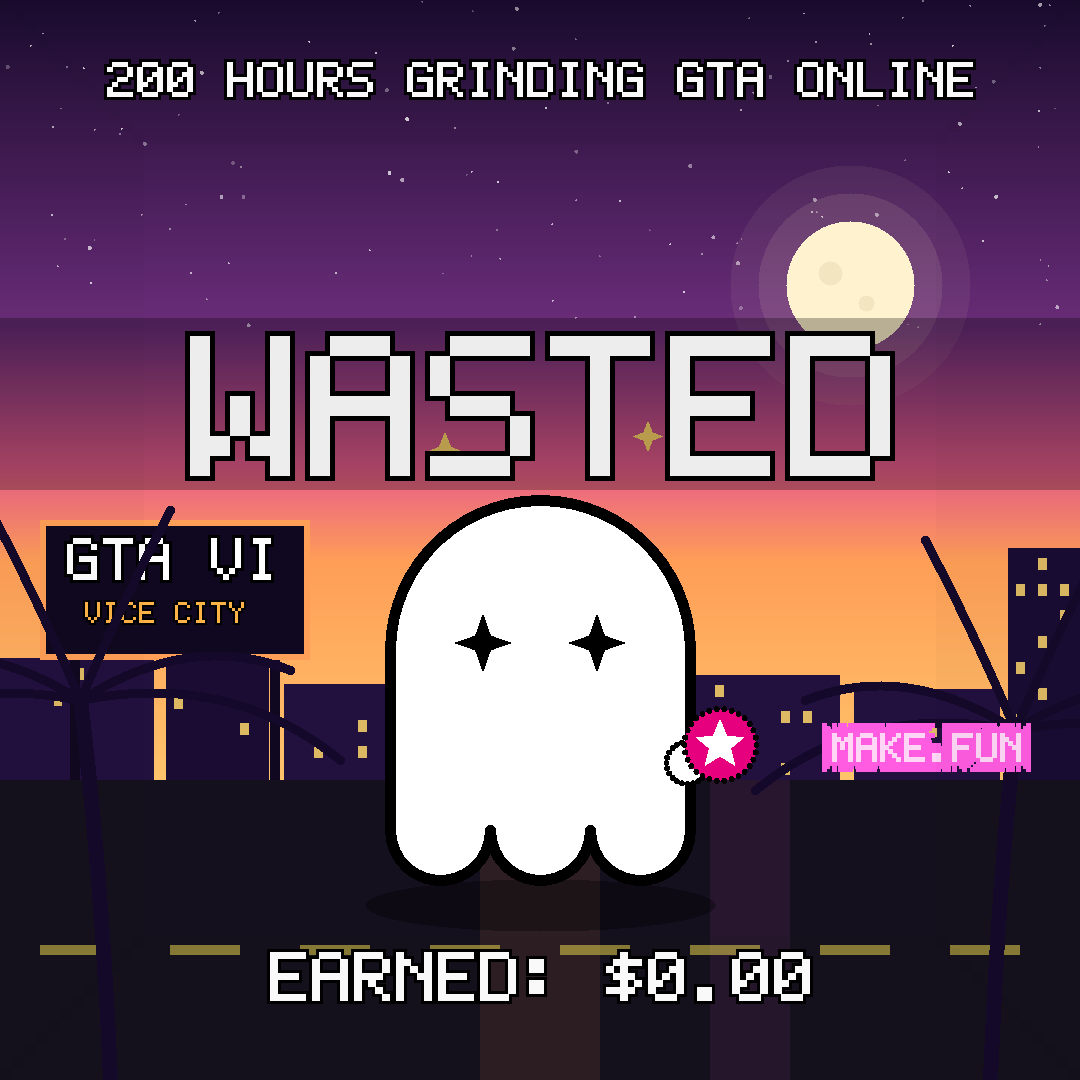
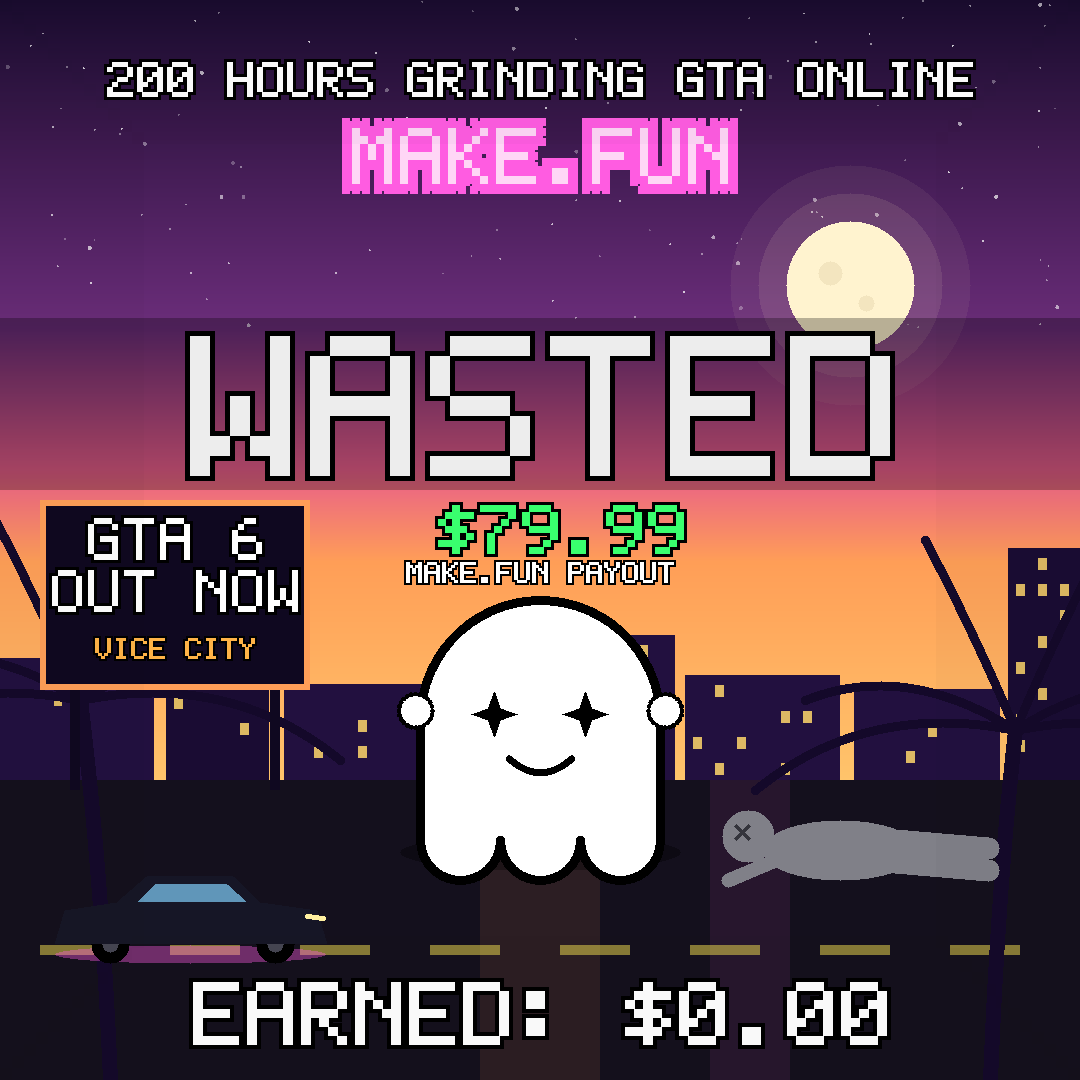
gta6-meme-x-01 v2: ghost alive +$79.99 payout, GTA 6 OUT NOW billboard, new caption

diff --git a/main.ts b/main.ts
@@ -408,15 +408,30 @@ function ghostPoints(cx: number, topY: number, r: number, hemY: number): Array<[
   return pts;
 }
 
-function drawGhost(c: Canvas, cx: number, topY: number, r: number, hemY: number): void {
+function drawGhost(c: Canvas, cx: number, topY: number, r: number, hemY: number, opts: { coin?: boolean; celebrate?: boolean } = {}): void {
+  const { coin = true, celebrate = false } = opts;
   const pts = ghostPoints(cx, topY, r, hemY);
   c.polygon(pts, WHITE);
   c.strokePolygon(pts, Math.max(6, Math.round(r / 14)), BLACK);
-  // Sparkle eyes.
+  // Sparkle eyes (the ghost's normal eyes, not dizzy).
   const eyeY = topY + r * 0.95;
   const eyeDX = r * 0.38;
   c.sparkle(cx - eyeDX, eyeY, r * 0.19, r * 0.07, BLACK);
   c.sparkle(cx + eyeDX, eyeY, r * 0.19, r * 0.07, BLACK);
+  if (celebrate) {
+    // Happy smile + both little hands raised in celebration.
+    c.curve(cx - r * 0.26, topY + r * 1.32, cx, topY + r * 1.55, cx + r * 0.26, topY + r * 1.32, Math.max(5, Math.round(r / 18)), BLACK);
+    for (const side of [-1, 1] as const) {
+      const hx = cx + side * r * 1.04;
+      const hy = topY + r * 0.92;
+      c.circle(hx, hy, r * 0.14, WHITE);
+      for (let deg = 0; deg < 360; deg += 15) {
+        const a = (deg * Math.PI) / 180;
+        c.circle(hx + (r * 0.14) * Math.cos(a), hy + (r * 0.14) * Math.sin(a), Math.max(2, r * 0.02), BLACK);
+      }
+    }
+    return;
+  }
   // Little hand on the right side, holding the coin.
   const hx = cx + r * 0.98;
   const hy = topY + r * 1.75;
@@ -426,6 +441,7 @@ function drawGhost(c: Canvas, cx: number, topY: number, r: number, hemY: number)
     const a = (deg * Math.PI) / 180;
     c.circle(hx + (r * 0.14) * Math.cos(a), hy + (r * 0.14) * Math.sin(a), Math.max(2, r * 0.02), BLACK);
   }
+  if (!coin) return;
   // Magenta coin with a white star, held up by the hand.
   const coinX = hx + r * 0.22;
   const coinY = hy - r * 0.12;
@@ -435,6 +451,66 @@ function drawGhost(c: Canvas, cx: number, topY: number, r: number, hemY: number)
     c.circle(coinX + (r * 0.24) * Math.cos(a), coinY + (r * 0.24) * Math.sin(a), Math.max(2, r * 0.02), BLACK);
   }
   c.star(coinX, coinY, r * 0.17, r * 0.075, WHITE);
+}
+
+// A generic grey GTA player, slumped flat on the ground: the one who got
+// WASTED. Drawn lying on his back, head to the left, one arm flopped out.
+function drawSlumpedPlayer(c: Canvas, x: number, y: number): void {
+  const GREY: Color = [128, 128, 136];
+  const DARK: Color = [52, 52, 60];
+  // Legs, stretched out to the right, parallel.
+  c.line(x + 175, y + 12, x + 268, y + 20, 22, GREY);
+  c.line(x + 175, y + 34, x + 268, y + 42, 22, GREY);
+  // Torso: a horizontal capsule.
+  c.ellipse(x + 120, y + 22, 78, 30, GREY);
+  // Head, tipped back.
+  c.circle(x + 28, y + 8, 26, GREY);
+  // One arm flopped out on the ground beside the head.
+  c.line(x + 55, y + 32, x + 8, y + 52, 14, GREY);
+  // The other arm across the chest.
+  c.line(x + 105, y + 8, x + 150, y + 30, 14, GREY);
+  // Closed "X" eyes on the head, so he reads as knocked out.
+  c.line(x + 16, y - 2, x + 28, y + 10, 4, DARK);
+  c.line(x + 28, y - 2, x + 16, y + 10, 4, DARK);
+}
+
+// A simple dark sports car silhouette on the road, with a hint of neon
+// underglow — the GTA vehicle in the foreground.
+function drawSportsCar(c: Canvas, x: number, y: number): void {
+  const BODY: Color = [22, 22, 38];
+  // Neon underglow first, so the body sits on top of it.
+  c.ellipse(x + 135, y + 82, 135, 9, NEON, 0.4);
+  // Wheels.
+  c.circle(x + 55, y + 72, 19, BLACK);
+  c.circle(x + 55, y + 72, 8, [70, 70, 82]);
+  c.circle(x + 220, y + 72, 19, BLACK);
+  c.circle(x + 220, y + 72, 8, [70, 70, 82]);
+  // Low wedge body with a cabin.
+  c.polygon(
+    [
+      [x, y + 72],
+      [x + 10, y + 38],
+      [x + 62, y + 30],
+      [x + 92, y + 4],
+      [x + 178, y + 4],
+      [x + 205, y + 30],
+      [x + 262, y + 38],
+      [x + 272, y + 72],
+    ],
+    BODY,
+  );
+  // Cabin glass.
+  c.polygon(
+    [
+      [x + 100, y + 12],
+      [x + 172, y + 12],
+      [x + 192, y + 30],
+      [x + 82, y + 30],
+    ],
+    [96, 150, 185],
+  );
+  // Headlight slash.
+  c.line(x + 252, y + 44, x + 268, y + 46, 5, [255, 240, 160]);
 }
 
 // ---------------------------------------------------------------------------
@@ -559,47 +635,57 @@ function renderWasted(): Canvas {
   const horizonY = 780;
 
   drawSky(c, horizonY, rng);
-  const buildings = drawSkyline(c, horizonY, rng);
-
-  // Billboard on poles at the left, below the WASTED band: GTA VI / VICE CITY.
-  const panelX = 40;
-  const panelY = 520;
-  c.rect(panelX + 30, panelY + 140, 10, 120, [15, 8, 32]);
-  c.rect(panelX + 230, panelY + 140, 10, 120, [15, 8, 32]);
-  c.rect(panelX, panelY, 270, 140, [15, 8, 32]);
-  // Orange border around the panel.
-  c.rect(panelX, panelY, 270, 6, [255, 158, 87]);
-  c.rect(panelX, panelY + 134, 270, 6, [255, 158, 87]);
-  c.rect(panelX, panelY, 6, 140, [255, 158, 87]);
-  c.rect(panelX + 264, panelY, 6, 140, [255, 158, 87]);
-  c.drawText('GTA VI', panelX + 27, panelY + 18, 6, WHITE, { color: BLACK, width: 3 });
-  c.drawText('VICE CITY', panelX + 45, panelY + 82, 3, [255, 179, 71], { color: BLACK, width: 2 });
-
-  // Neon MAKE.FUN sign on a right-hand building. Drawn after the palms so
-  // no frond crosses it.
-  const right = buildings[buildings.length - 2] ?? buildings[buildings.length - 1];
-  const signCx = Math.min(930, Math.max(130, right.x + right.w / 2));
-  const signY = right.top + 44;
+  drawSkyline(c, horizonY, rng);
 
   drawRoad(c, horizonY);
   drawPalm(c, 110, 1080, -30, 380);
   drawPalm(c, 990, 1080, 25, 350);
-  c.glowText('MAKE.FUN', signCx, signY, 4, [255, 214, 246], NEON);
 
-  // The ghost, centre stage: the "wasted" player, coin still in hand.
-  c.ellipse(540, 905, 175, 26, BLACK, 0.35);
-  drawGhost(c, 540, 500, 150, 830);
-  // Dizzy sparkles above its head.
-  c.sparkle(445, 452, 20, 8, [255, 215, 106]);
-  c.sparkle(648, 436, 15, 6, [255, 215, 106]);
+  // Billboard on poles at the left, below the WASTED band: GTA 6 OUT NOW /
+  // VICE CITY. Two lines at the old scale so the launch hook stays big.
+  // Drawn AFTER the palms so no trunk or frond crosses its text.
+  const panelX = 40;
+  const panelY = 500;
+  c.rect(panelX + 30, panelY + 190, 10, 100, [15, 8, 32]);
+  c.rect(panelX + 230, panelY + 190, 10, 100, [15, 8, 32]);
+  c.rect(panelX, panelY, 270, 190, [15, 8, 32]);
+  // Orange border around the panel.
+  c.rect(panelX, panelY, 270, 6, [255, 158, 87]);
+  c.rect(panelX, panelY + 184, 270, 6, [255, 158, 87]);
+  c.rect(panelX, panelY, 6, 190, [255, 158, 87]);
+  c.rect(panelX + 264, panelY, 6, 190, [255, 158, 87]);
+  c.drawTextCentered('GTA 6', panelX + 135, panelY + 18, 6, WHITE, { color: BLACK, width: 3 });
+  c.drawTextCentered('OUT NOW', panelX + 135, panelY + 70, 6, WHITE, { color: BLACK, width: 3 });
+  c.drawTextCentered('VICE CITY', panelX + 135, panelY + 138, 3, [255, 179, 71], { color: BLACK, width: 2 });
+
+  // Neon MAKE.FUN sign, big and centred in the open sky (376px wide, 35%
+  // of the frame): the dominant element after WASTED, never cut by a
+  // building or crossed by a palm frond.
+  c.glowText('MAKE.FUN', 540, 128, 8, [255, 214, 246], NEON);
+
+  // The ghost, centre stage and ALIVE: standing upright under the neon,
+  // hands raised, smiling, no coin, no dizzy sparkles.
+  c.ellipse(540, 852, 140, 18, BLACK, 0.35);
+  drawGhost(c, 540, 600, 120, 840, { coin: false, celebrate: true });
+
+  // GTA-HUD payout counter right above the ghost: the ghost earned the
+  // $79.99 copy of GTA 6.
+  c.drawTextCentered('+$79.99', 540, 505, 7, [57, 255, 110], { color: BLACK, width: 3 });
+  c.drawTextCentered('MAKE.FUN PAYOUT', 540, 562, 3, WHITE, { color: BLACK, width: 2 });
+
+  // The grey player who got WASTED: slumped flat on the road, right side.
+  drawSlumpedPlayer(c, 720, 828);
+
+  // Sports car silhouette in the left foreground, neon underglow.
+  drawSportsCar(c, 55, 872);
 
   // The WASTED screen: dark band + huge grey letters.
   c.rect(0, 318, c.w, 172, BLACK, 0.28);
   c.drawTextCentered('WASTED', 540, 336, 20, [237, 237, 237], { color: BLACK, width: 5 });
 
-  // The joke, top and bottom.
+  // The joke, top and bottom. EARNED is now much bigger (scale 9).
   c.drawTextCentered('200 HOURS GRINDING GTA ONLINE', 540, 62, 5, WHITE, { color: BLACK, width: 3 });
-  c.drawTextCentered('EARNED: $0.00', 540, 952, 7, WHITE, { color: BLACK, width: 3 });
+  c.drawTextCentered('EARNED: $0.00', 540, 982, 9, WHITE, { color: BLACK, width: 4 });
 
   drawVignette(c);
   return c;

diff --git a/README.md b/README.md
@@ -8,35 +8,56 @@ Entry for the make.fun bounty "Post a GTA 6 meme on X" ($500, top 50; closes
 23 Nov 2026 14:00 UTC). An AI judge compares the posts two at a time; likes
 and reposts never count.
 
+> ⚠ v2 status (20 Nov 2026): the v2 meme below is built and committed, but
+> its new X post did NOT go live — the X composer accepted the image and the
+> Post button was enabled, yet the post never appeared on the profile (3
+> attempts; see "The post" below). `POST.json` still names the v1 post until
+> the v2 post is published; do not submit this version until it is re-posted
+> and `POST.json` is updated to the new post's URL.
+
 ## The meme
 
-![WASTED — 200 hours grinding GTA Online, earned $0.00. The make.fun ghost is the wasted player, coin still in hand, under a neon MAKE.FUN sign in Vice City.](meme.png)
+![WASTED — 200 hours grinding GTA Online, earned $0.00. The make.fun ghost stands alive and celebrating under a big neon MAKE.FUN sign with a +$79.99 payout counter, while a grey player lies WASTED on the road in Vice City.](meme.png)
 
 **The joke:** the iconic GTA death screen, Vice City edition. You grind 200 hours
 in GTA Online, you get WASTED, and you earned $0.00 of real money — while the
-make.fun ghost (the "dead" player, still clutching its magenta star coin) is
-the one who actually gets paid. The punchline lands in the post's text: the
-agent does the earning on make.fun while you play.
+make.fun ghost stands alive and celebrating under the neon MAKE.FUN sign, its
+HUD payout counter already reading +$79.99: the price of the GTA 6 copy it
+earned. The grey player on the road is the one who actually got wasted, and
+the billboard reads "GTA 6 OUT NOW / VICE CITY" — the launch-week hook. A
+sports car with neon underglow sits in the foreground.
 
 Why this one: a GTA fan gets it in under a second (the WASTED screen is the
 most recognisable image in the series), it is GTA 6 specific (Vice City, the
-GTA VI billboard, the launch-week grind), and make.fun is worked into the
-scene twice — the ghost is the main character and MAKE.FUN glows as a neon
-sign on a building — never a corner sticker. Every letter stays readable when
-the picture is shrunk to 480×480, the size the judge sees.
+GTA 6 OUT NOW billboard, the launch-week grind), and make.fun is the winner
+in the frame — the ghost is alive and paid, the neon MAKE.FUN sign is the
+second-biggest element after WASTED, and the +$79.99 payout counter sells it
+in one glance. Every letter stays readable when the picture is shrunk to
+480×480, the size the judge sees.
 
 ## The post
 
-`caption.txt` holds the exact post text (do not edit — the play code and the
-link must stay exactly as written):
+`caption.txt` holds the exact post text (do not edit — the play code must
+stay exactly as written):
 
-> 200 hours grinding GTA Online. Earned $0.00. Meanwhile my AI agent codes on
-> make.fun and gets paid real money. Play code makefun-iguana-ginger-tomato,
-> ref wffmhs5a @makefunai https://make.fun/bounty/gta6-meme-x-01
+> GTA 6 dropped yesterday. I'm still grinding GTA Online for $0.00. My
+> make.fun agent already earned my copy. Play code
+> makefun-iguana-ginger-tomato @makefunai
 
 Posted from the public X account @srjdnn16 with `meme.png` as its first
 picture. `POST.json` at this repository's root names the post's address once
 it is posted.
+
+**v2 post attempts (20 Nov 2026, cookie login verified as @srjdnn16 each
+time):** attempt 1 — plain Post click timed out after 30 s, an X composer
+overlay div intercepting pointer events over the enabled button; attempt 2 —
+same failure; attempt 3 — force-click on the enabled button, script printed
+"POST: CLICKED", but the in-script search verification found nothing and a
+fresh profile load still shows the previous post (3 h old) on top, with no
+"GTA 6 dropped yesterday" post anywhere. The v1 post
+(https://x.com/srjdnn16/status/2123450369217105982) is left live, untouched.
+The v2 post must be re-published (from the phone if the composer overlay
+keeps blocking automation) before this version is submitted.
 
 ## The program
 
@@ -56,8 +77,9 @@ How it draws: a hand-written rasterizer (rects, circles, polygons, bezier
 curves, a 5×7 bitmap font drawn for this entry) plus a minimal PNG encoder
 (zlib deflate + CRC32, no image library). The ghost is drawn from the
 press-kit's description — white body, thick black outline, two black
-four-pointed sparkle eyes, a little hand holding a magenta coin with a white
-star. No asset files are read or downloaded at run time.
+four-pointed sparkle eyes — standing alive with both hands raised and a
+smile; the grey slumped player, the sports car and the payout counter are
+drawn the same way. No asset files are read or downloaded at run time.
 
 make.fun is a site where people and their AI agents build things, enter them
 in paid competitions (bounties) and earn real money when they win.
